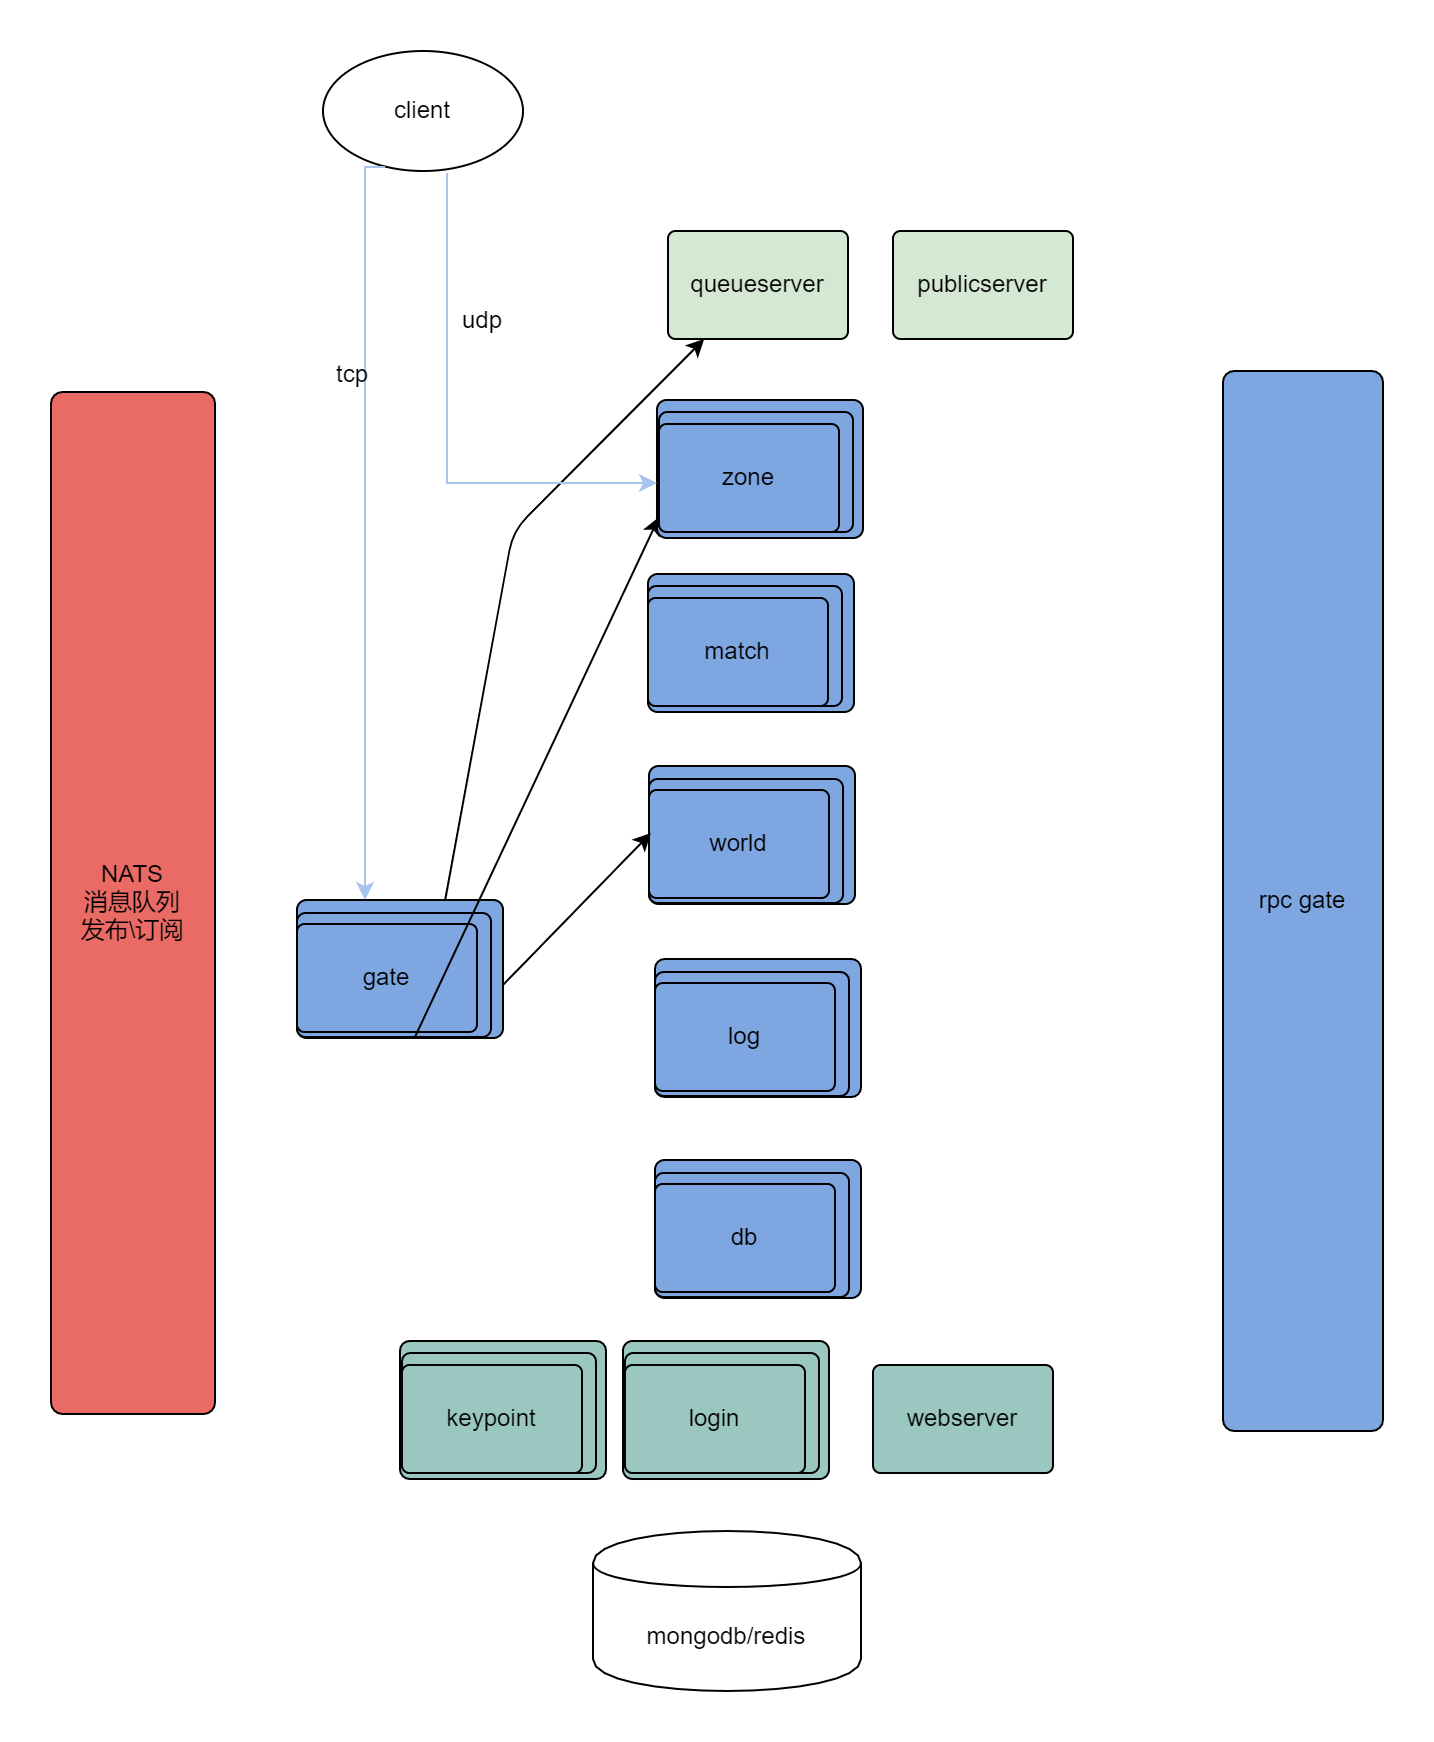
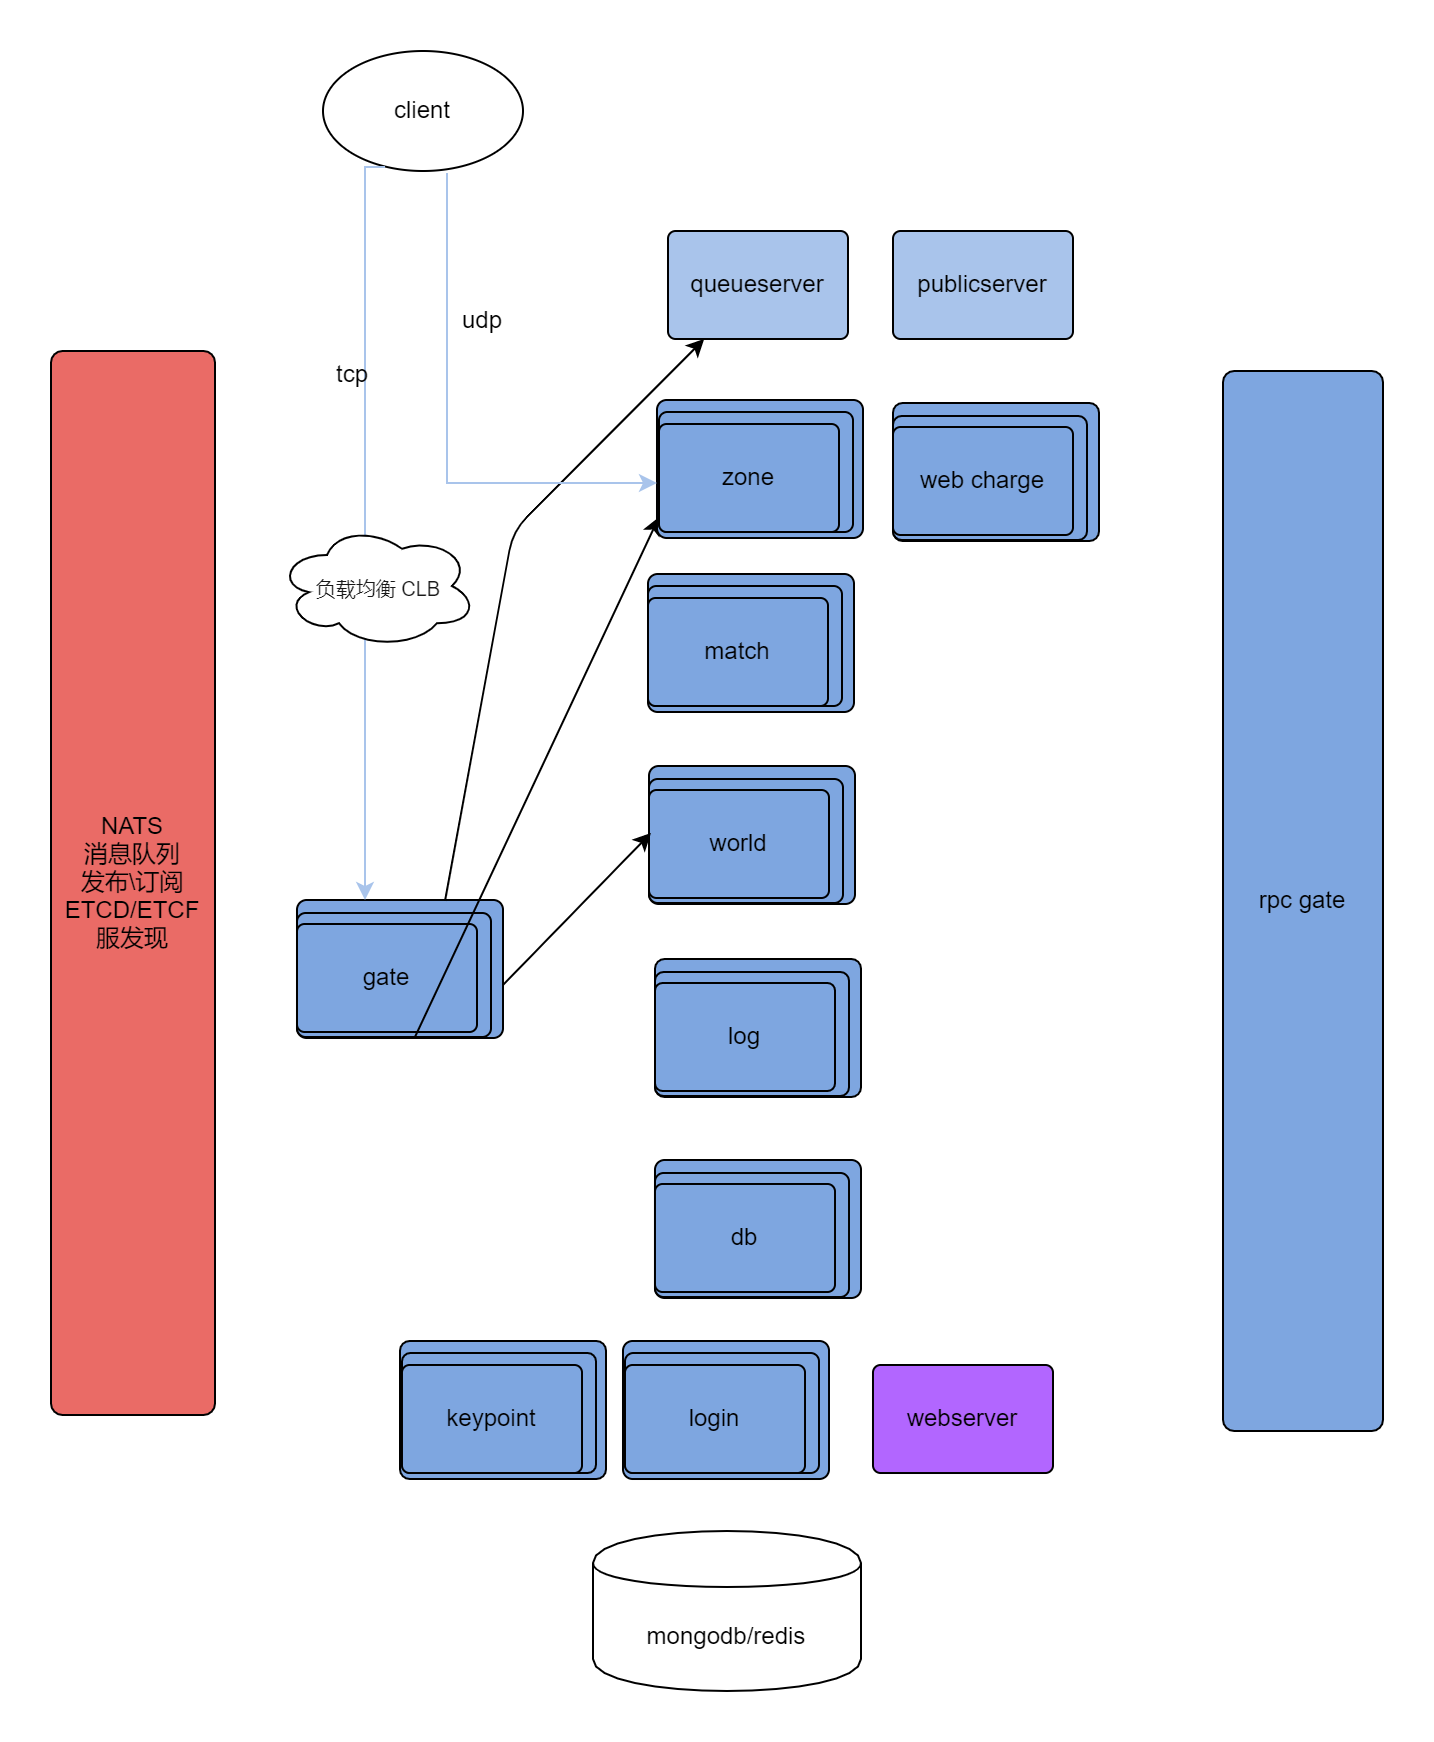
添加充值服务节点

diff --git a/config/LouMiaoCfg.go b/config/LouMiaoCfg.go
@@ -29,8 +29,9 @@ const (
 	ServerType_ETCF               //11 配置中心
 	ServerType_LOGINQUEUE         //12 排队
 	ServerType_Match              //13 匹配
-	ServerType_Robot              //14 机器人
+	ServerType_Robot              //14 测试机器人
 	ServerType_WebKeyPoint        //15 web 数据埋点
+	ServerType_WebCharge          //16 web 充值
 )
 
 var (
@@ -51,6 +52,7 @@ var (
 		ServerType_Match:       "matchserver",
 		ServerType_Robot:       "robot",
 		ServerType_WebKeyPoint: "keypoint",
+		ServerType_WebCharge:   "chargeserver",
 	}
 	ServerDesc = map[int]string{
 		ServerType_None:        "运行在每个物理机上的节点k8s-pod",
@@ -67,8 +69,9 @@ var (
 		ServerType_ETCF:        "注册中心",
 		ServerType_LOGINQUEUE:  "排队服",
 		ServerType_Match:       "匹配",
-		ServerType_Robot:       "机器人",
+		ServerType_Robot:       "测试机器人",
 		ServerType_WebKeyPoint: "数据埋点",
+		ServerType_WebCharge:   "充值",
 	}
 )
 

diff --git a/gate/gate_server.go b/gate/gate_server.go
@@ -305,7 +305,8 @@ func (self *GateServer) newServerDiscover(key, val string, dis bool) {
 	}
 
 	if node.Type == config.ServerType_WEB_LOGIN ||
-		node.Type == config.ServerType_WEB_GM { //filter weblogin/webserver,他们不参与rpc调用，不参与集群组网
+		node.Type == config.ServerType_WEB_GM ||
+		node.Type == config.ServerType_WebKeyPoint { //filter 他们不参与rpc调用，不参与集群组网，其实参与了也没啥影响
 		return
 	}
 

diff --git a/base/datafile.go b/base/datafile.go
@@ -56,7 +56,7 @@ type (
 	}
 )
 
-type BufferLoader func(file string) []byte
+type BufferLoader func(file string) ([]byte, error)
 
 func DataBufferLoader(file string) []byte {
 	fmt.Println("DataBufferLoader: ", file)
